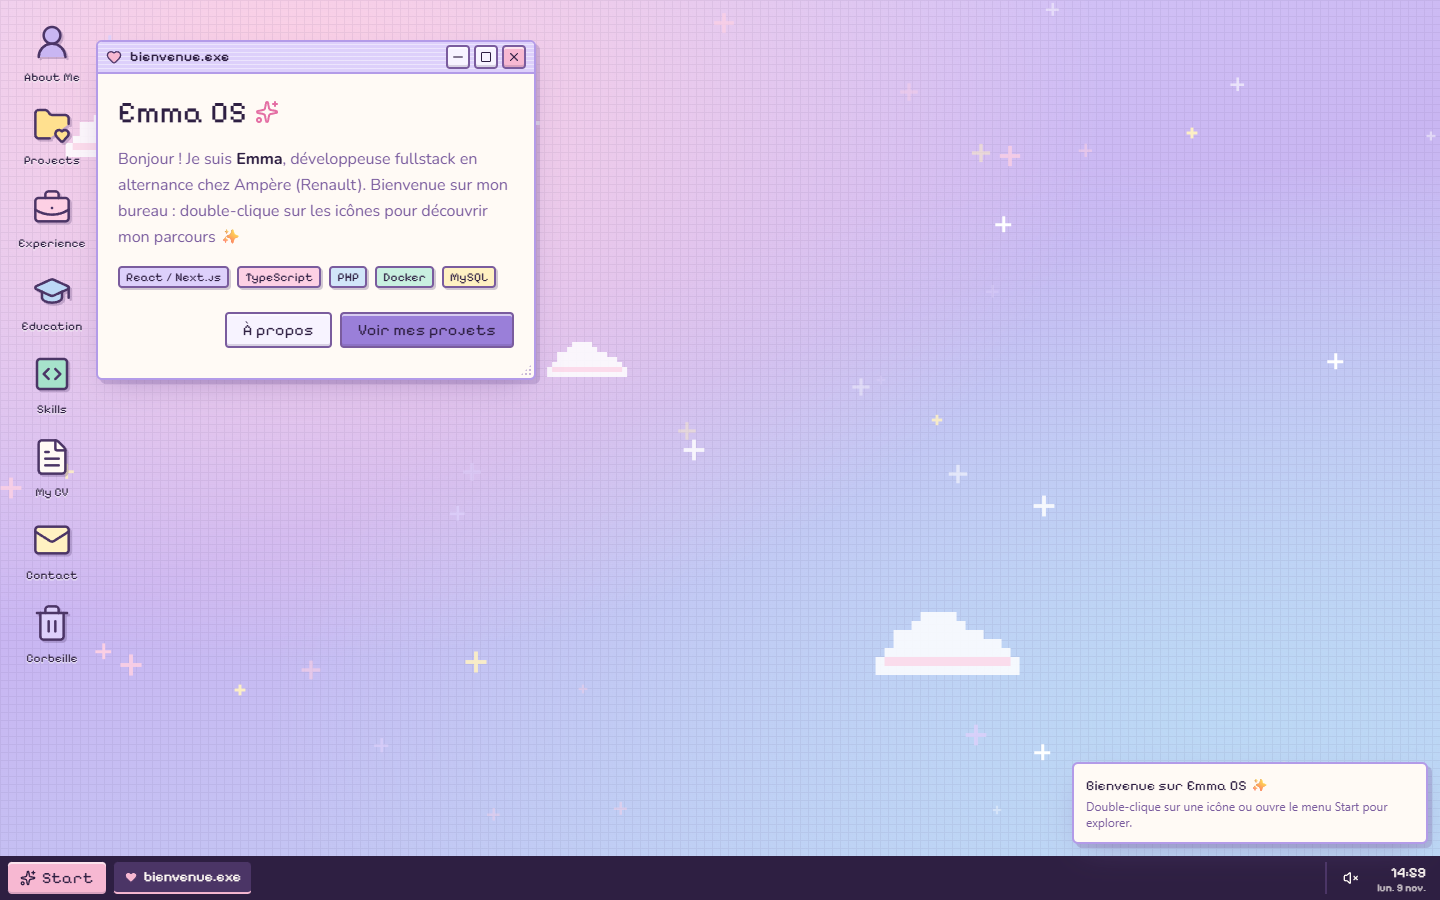
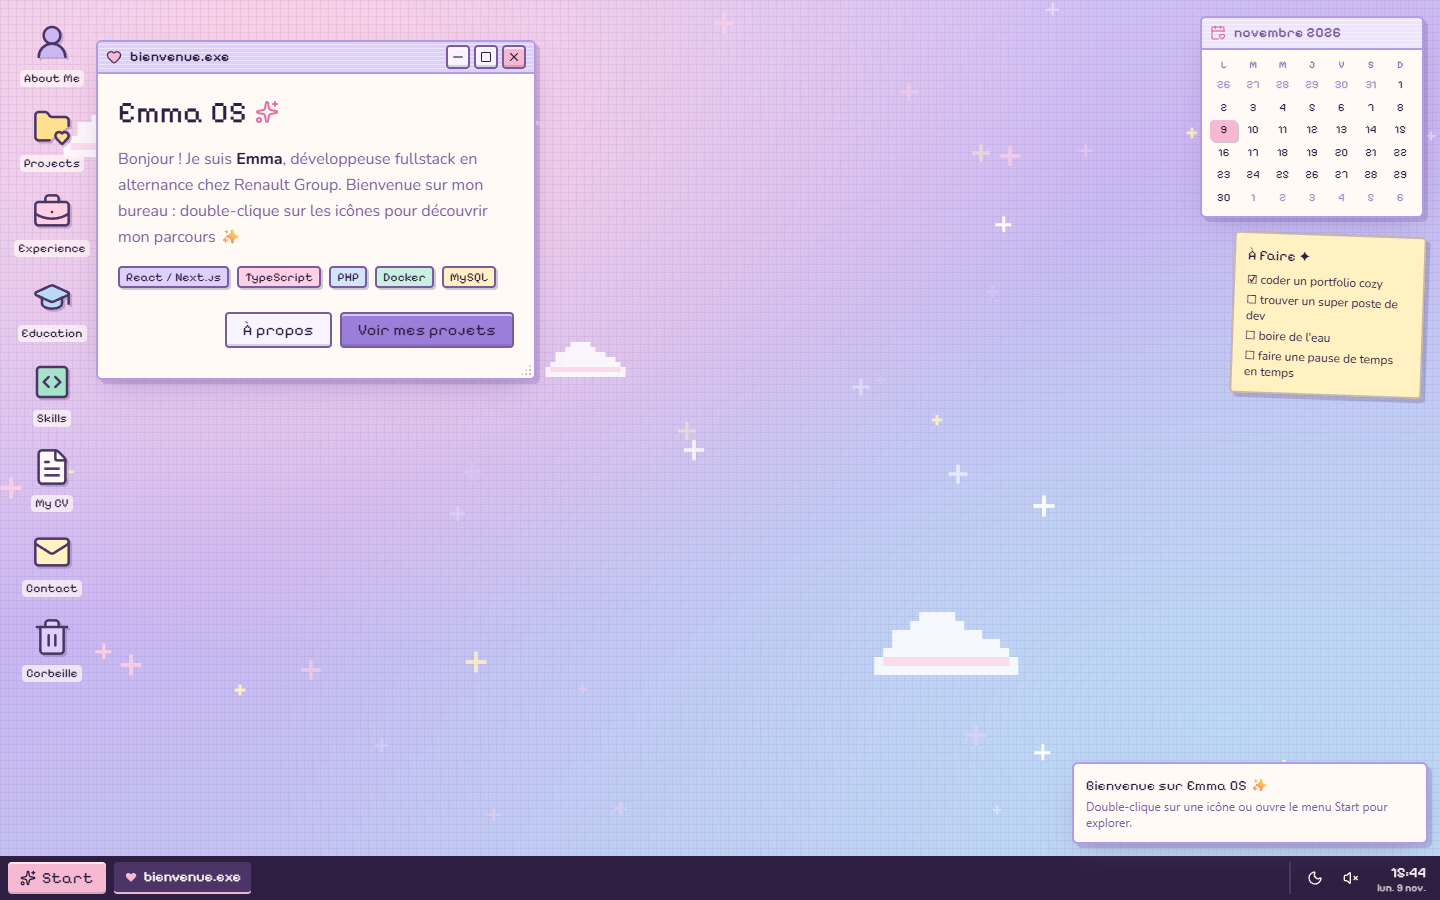
feat: update company names and degree formatting for consistency

diff --git a/src/data/profile.ts b/src/data/profile.ts
@@ -14,10 +14,10 @@ export const profile = {
   headline: "Développeuse web fullstack",
   photo: "/profile_picture.jpg",
   location: "Rouen",
-  status: "En alternance chez Ampère (Renault)",
+  status: "En alternance chez Renault Group",
   availability: "À la recherche d'un poste de développeuse web",
   bio: [
-    "Étudiante en Mastère « Manager de l'ingénierie numérique » à la **Normandie Web School** et actuellement en **alternance chez Renault (Ampère)** comme pilote de mission digitale / full stack.",
+    "Étudiante en Mastère \"Manager de l'ingénierie numérique\" à la **Normandie Web School** et actuellement en **alternance chez Renault Group** comme pilote de mission digitale / full stack.",
     "Je recherche aujourd'hui un **poste de développeuse web** pour mettre mes compétences fullstack au service de projets concrets, et continuer à progresser en **ingénierie logicielle**.",
   ],
   email: "emma.roizot@orange.fr",

diff --git a/src/components/apps/WelcomeApp.tsx b/src/components/apps/WelcomeApp.tsx
@@ -17,7 +17,7 @@ export function WelcomeApp() {
       </h1>
       <p className="leading-relaxed text-fg-muted">
         Bonjour ! Je suis <strong className="text-fg">{profile.firstName}</strong>,{" "}
-        {profile.role.toLowerCase()} en alternance chez Ampère (Renault). Bienvenue sur mon bureau :
+        {profile.role.toLowerCase()} en alternance chez Renault Group. Bienvenue sur mon bureau :
         double-clique sur les icônes pour découvrir mon parcours ✨
       </p>
       <div className="flex flex-wrap gap-2">

diff --git a/src/data/education.ts b/src/data/education.ts
@@ -13,7 +13,7 @@ export const education: Education[] = [
   {
     id: "nws",
     school: "Normandie Web School",
-    degree: "Mastère « Manager de l'ingénierie numérique »",
+    degree: "Mastère \"Manager de l'ingénierie numérique\"",
     place: "Rouen", // TODO: vérifier la ville du campus
     start: "Septembre 2025",
     end: "Août 2027",

diff --git a/src/data/experience.ts b/src/data/experience.ts
@@ -13,9 +13,9 @@ export interface Experience {
 
 export const experiences: Experience[] = [
   {
-    id: "ampere",
+    id: "renault",
     role: "Pilote de mission digitale / Full Stack",
-    company: "Ampère — Groupe Renault",
+    company: "Renault Group",
     place: "Usine de Cléon",
     contract: "Alternance",
     start: "Septembre 2024",
